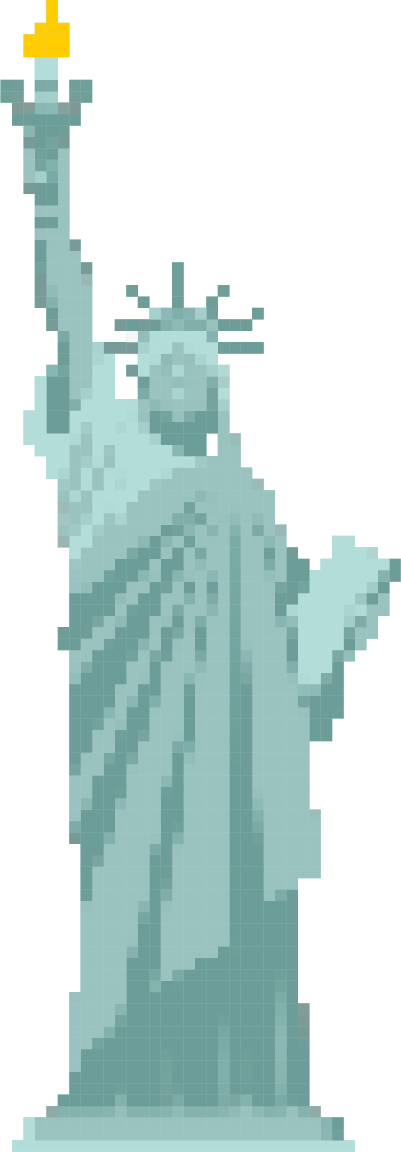
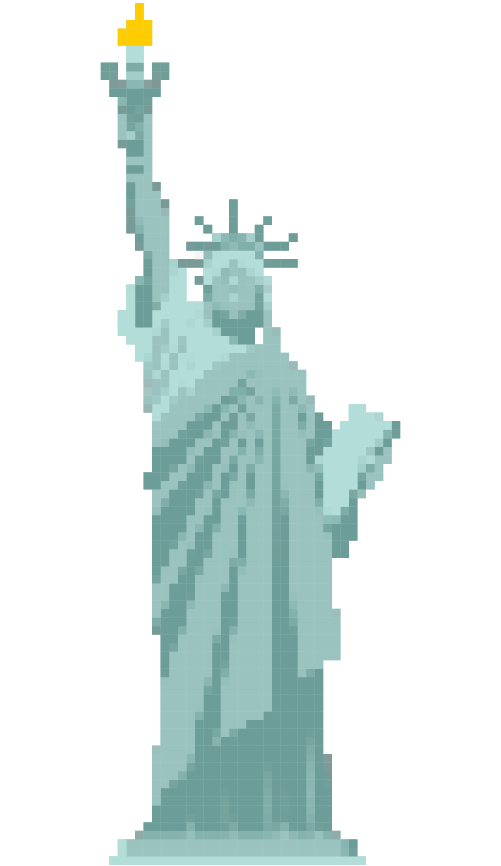
hack

diff --git a/index.html b/index.html
@@ -151,7 +151,6 @@
         </div>
 
         <div class="statueofliberty"></div>
-
         <div class="apple"></div>
 
        <!--  <div class="chopper"></div> -->
@@ -225,7 +224,11 @@
 
 		window.setInterval(function(){
 			$('.monkeyempire').toggleClass('wink');
-		},1500)
+		},1000);
+		
+		window.setInterval(function(){
+			$('.statueofliberty').toggleClass('flicker');
+		},500);
      
         var lastScrollTop = 0;
         $(document).scroll(function(event){

diff --git a/css/style.css b/css/style.css
@@ -129,6 +129,11 @@ h1
 }
 
 
+.statueofliberty.flicker{
+    background: url(../images/statue-of-liberty-alt.png) no-repeat 0 0;
+	background-size: contain;
+}
+
 .apple {
     z-index: 950;
     background: url(../images/apple.png) no-repeat 0 0;
